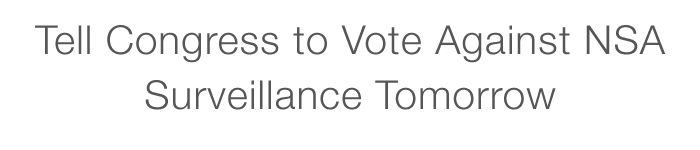
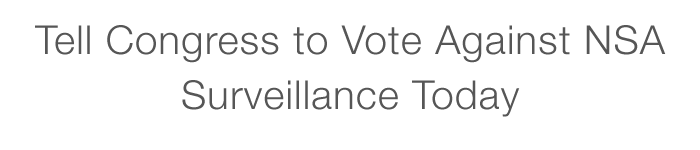
Updated all text to say today

Changed region(s): [[0.21, 0.5333, 0.81, 0.7733]]

diff --git a/index.html b/index.html
@@ -47,7 +47,7 @@
  <body>
   <div class="content-container">
     <div style="text-align: center;">
-    <img src="media/images/headertext.png" alt="Tell Congress to Vote Against NSA Surveillance Tomorrow" />
+    <img src="media/images/headertext.png" alt="Tell Congress to Vote Against NSA Surveillance Today" />
     </div>
       <div class="box">
         <form style="" class="zipcodeform">
@@ -105,7 +105,7 @@
            <!-- Fills with tweet cards for the given zipcode's legislators -->
               <div class="addthis_toolbox addthis_default_style ">
         <a class="addthis_button_facebook_like" fb:like:layout="box_count"></a>
-        <a class="addthis_button_tweet" tw:count="vertical" tw:text="A critical vote is happening tomorrow in Congress that could defund the NSA. You need to read this ->" tw:via="" tw:related="sinak,beaugunderson,jensnockert,neutralthoughts"></a>
+        <a class="addthis_button_tweet" tw:count="vertical" tw:text="A critical vote is happening TODAY in Congress that could defund the NSA. You need to read this ->" tw:via="" tw:related="sinak,beaugunderson,jensnockert,neutralthoughts"></a>
         <a class="addthis_button_google_plusone" g:plusone:size="tall"></a>
         </div>
         <script type="text/javascript">var addthis_config = {"data_track_addressbar":false};</script>
@@ -119,24 +119,24 @@
 
         <p class="tagline" style="padding-bottom:0px">It's been just over a
         month since new information on the NSA’s dragnet domestic surveillance
-        program was leaked to the public. Tomorrow, Congress is voting on an
+        program was leaked to the public. Today, Congress is voting on an
         amendment that would block funding for NSA programs using Section 215 of
         the Patriot Act to mass collect the call records of innocent
         Americans.</p>
 
-        <p class="tagline">A win tomorrow may start a chain reaction that leads
+        <p class="tagline">A win today may start a chain reaction that leads
         to real reform - but it won't happen unless we speak up. We have one day
         to convince Congress to act.</p>
 
         <p><a
          href="http://dailycaller.com/2013/07/16/amash-defense-bill-amendment-seeks-to-defund-overbroad-nsa-surveillance/"
-         target="_blank">A critical vote is happening tomorrow</a>, July 24th,
+         target="_blank">A critical vote is happening TODAY</a>, July 24th,
         on the Defense Appropriations Bill in the House of Representatives. The
         bill gives taxpayer money to fund defense programs, including the NSA,
         which is part of the Department of Defense.</p>
 
-        <p>Yesterday, an important bipartisan amendment to that bill was
-        green-lighted to be voted on tomorrow. Proposed by Rep. Justin Amash
+        <p>On Monday, an important bipartisan amendment to that bill was
+        green-lighted to be voted on TODAY. Proposed by Rep. Justin Amash
         (MI), the amendment would remove funding for NSA programs using the
         Patriot Act for blanket collection of phone records and metadata from
         phone service providers.</p>
@@ -202,7 +202,7 @@
         <!-- AddThis Button BEGIN -->
         <div class="addthis_toolbox addthis_default_style ">
         <a class="addthis_button_facebook_like" fb:like:layout="box_count"></a>
-        <a class="addthis_button_tweet" tw:count="vertical" tw:text="DefundTheNSA: A critical vote is happening tomorrow in Congress that could partially defund NSA surveillance ->" tw:via="" tw:related="sinak,beaugunderson,jensnockert,neutralthoughts"></a>
+        <a class="addthis_button_tweet" tw:count="vertical" tw:text="DefundTheNSA: A critical vote is happening TODAY in Congress that could partially defund NSA surveillance ->" tw:via="" tw:related="sinak,beaugunderson,jensnockert,neutralthoughts"></a>
         <a class="addthis_button_google_plusone" g:plusone:size="tall"></a>
         </div>
       </script>
@@ -213,7 +213,7 @@
         <!-- AddThis Button BEGIN -->
         <div class="addthis_toolbox addthis_default_style ">
         <a class="addthis_button_facebook_like" fb:like:layout="box_count"></a>
-        <a class="addthis_button_tweet" tw:count="vertical" tw:text="#DefundTheNSA: A critical vote is happening tomorrow in Congress that could partially defund NSA surveillance ->" tw:via="" tw:related="tfrce,beaugunderson,sinak,jensnockert,neutralthoughts"></a>
+        <a class="addthis_button_tweet" tw:count="vertical" tw:text="#DefundTheNSA: A critical vote is happening TODAY in Congress that could partially defund NSA surveillance ->" tw:via="" tw:related="tfrce,beaugunderson,sinak,jensnockert,neutralthoughts"></a>
         <a class="addthis_button_google_plusone" g:plusone:size="tall"></a>
         </div>
         <script type="text/javascript">
